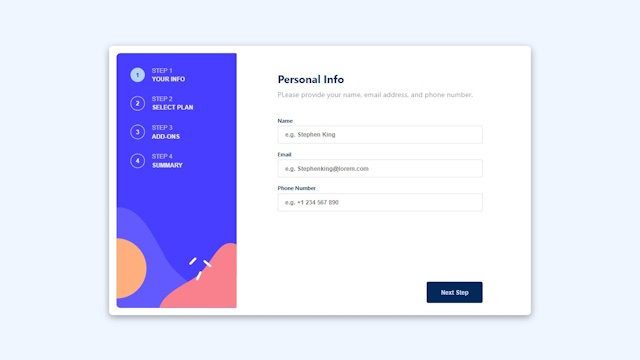
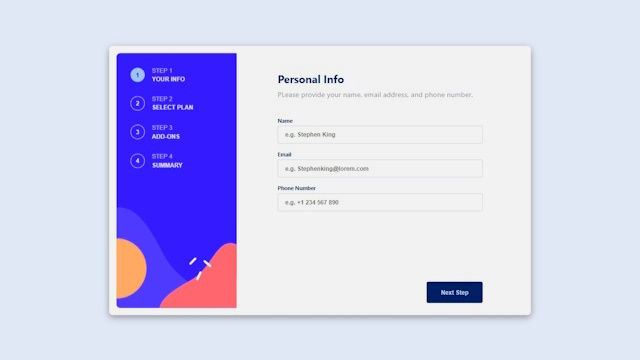
implement dark mode

Changed region(s): [[0.1562, 0.1528, 0.375, 0.8556]]

diff --git a/src/components/DarkModeSwitch.tsx b/src/components/DarkModeSwitch.tsx
@@ -1,0 +1,49 @@
+import type { Theme } from '../hooks/useDarkMode';
+
+interface Props {
+	theme: Theme;
+	onClick: () => void;
+}
+
+export function DarkModeSwitch(props: Props): React.ReactElement {
+	const { theme, onClick } = props;
+
+	return (
+		<button
+			className='relative w-8 h-8 overflow-hidden rounded-full hover:text-blue-500 hover:bg-black/10 dark:hover:bg-white/10'
+			onClick={onClick}
+		>
+			<div
+				className={`absolute text-2xl left-1 transition-all ease-in duration-300 ${
+					theme === 'light' ? 'top-1' : 'top-[-24px]'
+				}`}
+			>
+				<svg
+					stroke='currentColor'
+					fill='currentColor'
+					strokeWidth='0'
+					viewBox='0 0 24 24'
+					height='1em'
+					width='1em'
+					xmlns='http://www.w3.org/2000/svg'
+				>
+					<path fill='none' d='M0 0h24v24H0z'></path>
+					<path d='M9.37 5.51A7.35 7.35 0 009.1 7.5c0 4.08 3.32 7.4 7.4 7.4.68 0 1.35-.09 1.99-.27A7.014 7.014 0 0112 19c-3.86 0-7-3.14-7-7 0-2.93 1.81-5.45 4.37-6.49zM12 3a9 9 0 109 9c0-.46-.04-.92-.1-1.36a5.389 5.389 0 01-4.4 2.26 5.403 5.403 0 01-3.14-9.8c-.44-.06-.9-.1-1.36-.1z'></path>
+				</svg>
+				<svg
+					className='mt-1'
+					stroke='currentColor'
+					fill='currentColor'
+					strokeWidth='0'
+					viewBox='0 0 24 24'
+					height='1em'
+					width='1em'
+					xmlns='http://www.w3.org/2000/svg'
+				>
+					<path fill='none' d='M0 0h24v24H0z'></path>
+					<path d='M12 9c1.65 0 3 1.35 3 3s-1.35 3-3 3-3-1.35-3-3 1.35-3 3-3m0-2c-2.76 0-5 2.24-5 5s2.24 5 5 5 5-2.24 5-5-2.24-5-5-5zM2 13h2c.55 0 1-.45 1-1s-.45-1-1-1H2c-.55 0-1 .45-1 1s.45 1 1 1zm18 0h2c.55 0 1-.45 1-1s-.45-1-1-1h-2c-.55 0-1 .45-1 1s.45 1 1 1zM11 2v2c0 .55.45 1 1 1s1-.45 1-1V2c0-.55-.45-1-1-1s-1 .45-1 1zm0 18v2c0 .55.45 1 1 1s1-.45 1-1v-2c0-.55-.45-1-1-1s-1 .45-1 1zM5.99 4.58a.996.996 0 00-1.41 0 .996.996 0 000 1.41l1.06 1.06c.39.39 1.03.39 1.41 0s.39-1.03 0-1.41L5.99 4.58zm12.37 12.37a.996.996 0 00-1.41 0 .996.996 0 000 1.41l1.06 1.06c.39.39 1.03.39 1.41 0a.996.996 0 000-1.41l-1.06-1.06zm1.06-10.96a.996.996 0 000-1.41.996.996 0 00-1.41 0l-1.06 1.06c-.39.39-.39 1.03 0 1.41s1.03.39 1.41 0l1.06-1.06zM7.05 18.36a.996.996 0 000-1.41.996.996 0 00-1.41 0l-1.06 1.06c-.39.39-.39 1.03 0 1.41s1.03.39 1.41 0l1.06-1.06z'></path>
+				</svg>
+			</div>
+		</button>
+	);
+}

diff --git a/src/components/Navbar.tsx b/src/components/Navbar.tsx
@@ -2,9 +2,12 @@ import React, { useMemo, useRef, useState } from 'react';
 import NavbarItem from './NavbarItem';
 import useClickOutside from '../hooks/useClickOutside';
 import { SocialMedia } from './SocialMedia';
+import { useDarkMode } from '../hooks/useDarkMode';
+import { DarkModeSwitch } from './DarkModeSwitch';
 
 const Navbar = () => {
 	const [isOpen, setIsOpen] = useState(false);
+	const [colorTheme, setTheme] = useDarkMode();
 	const menuRef = useRef<HTMLUListElement | null>(null);
 	useClickOutside({
 		ref: menuRef,
@@ -35,9 +38,11 @@ const Navbar = () => {
 				<NavbarItem title='Experience' href='#experience' />
 				<NavbarItem title='Projects' href='#projects' />
 				<NavbarItem title='Contact' href='#contact' />
+				{/* <button onClick={() => setTheme()}>{colorTheme}</button> */}
+				<DarkModeSwitch theme={colorTheme} onClick={setTheme} />
 			</>
 		),
-		[]
+		[colorTheme, setTheme]
 	);
 
 	return (
@@ -58,17 +63,17 @@ const Navbar = () => {
 					onClick={handleClick}
 				>
 					<span
-						className={`absolute block w-4 h-1 bg-black rounded-sm sibling-checked:bg-blue-500 ${
+						className={`absolute block w-4 h-1 bg-black dark:bg-white rounded-sm sibling-checked:bg-blue-500 ${
 							isOpen ? 'w-8 rotate-45 top-5' : 'top-2'
 						} transition-all`}
 					></span>
 					<span
-						className={`absolute block top-4 w-6 h-1 bg-black rounded-sm ${
+						className={`absolute block top-4 w-6 h-1 bg-black dark:bg-white rounded-sm ${
 							isOpen && 'opacity-0'
 						} transition-all`}
 					></span>
 					<span
-						className={`absolute block w-8 h-1 bg-black rounded-sm ${
+						className={`absolute block w-8 h-1 bg-black dark:bg-white rounded-sm ${
 							isOpen ? 'rotate-[-45deg] top-5' : 'top-6'
 						} transition-all`}
 					></span>
@@ -78,7 +83,7 @@ const Navbar = () => {
 				<div className='fixed top-0 right-0 w-[100vw] h-[100vh] bg-[rgba(0,0,0,0.1)] sm:hidden overflow-hidden'>
 					<ul
 						ref={menuRef}
-						className='absolute right-0 bg-gray-100
+						className='absolute right-0 bg-[var(--bg-color)]
 									 top-0 h-full w-full xs:w-48 flex flex-col pt-12 shadow-md p-4 gap-1
 									 animate-[wiggle_0.333s_ease-in-out_forwards] z-20'
 					>

diff --git a/src/hooks/useDarkMode.tsx b/src/hooks/useDarkMode.tsx
@@ -1,0 +1,28 @@
+import { useState, useEffect } from 'react';
+
+export type Theme = 'dark' | 'light';
+export function useDarkMode(): [Theme, () => void] {
+	const currentTheme = globalThis.window?.matchMedia?.('(prefers-color-scheme: dark)').matches
+		? 'dark'
+		: 'light';
+
+	const [theme, setTheme] = useState<Theme>(localStorage.theme || currentTheme);
+
+	const handleTogleTheme = () => {
+		setTheme((preTheme) => {
+			const newTheme = preTheme === 'dark' ? 'light' : 'dark';
+			const root = window.document.documentElement;
+			root.classList.remove(preTheme);
+			root.classList.add(newTheme);
+			localStorage.setItem('theme', newTheme);
+			return newTheme;
+		});
+	};
+
+	useEffect(() => {
+		const root = window.document.documentElement;
+		root.classList.add(theme);
+	}, []);
+
+	return [theme, handleTogleTheme];
+}
